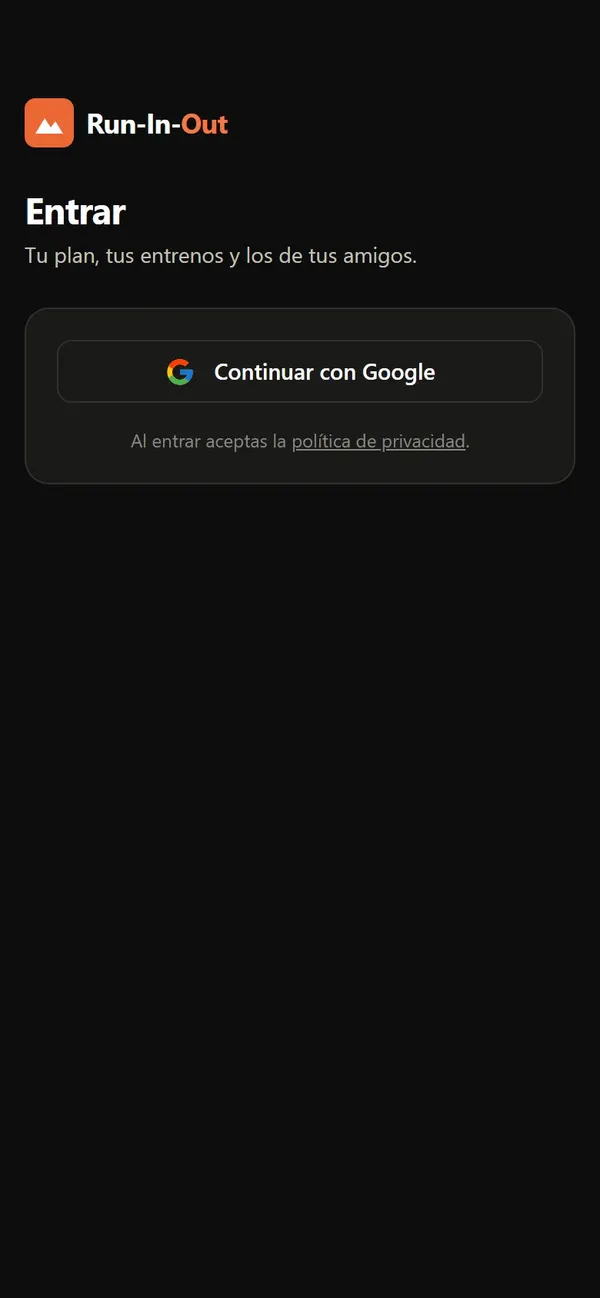
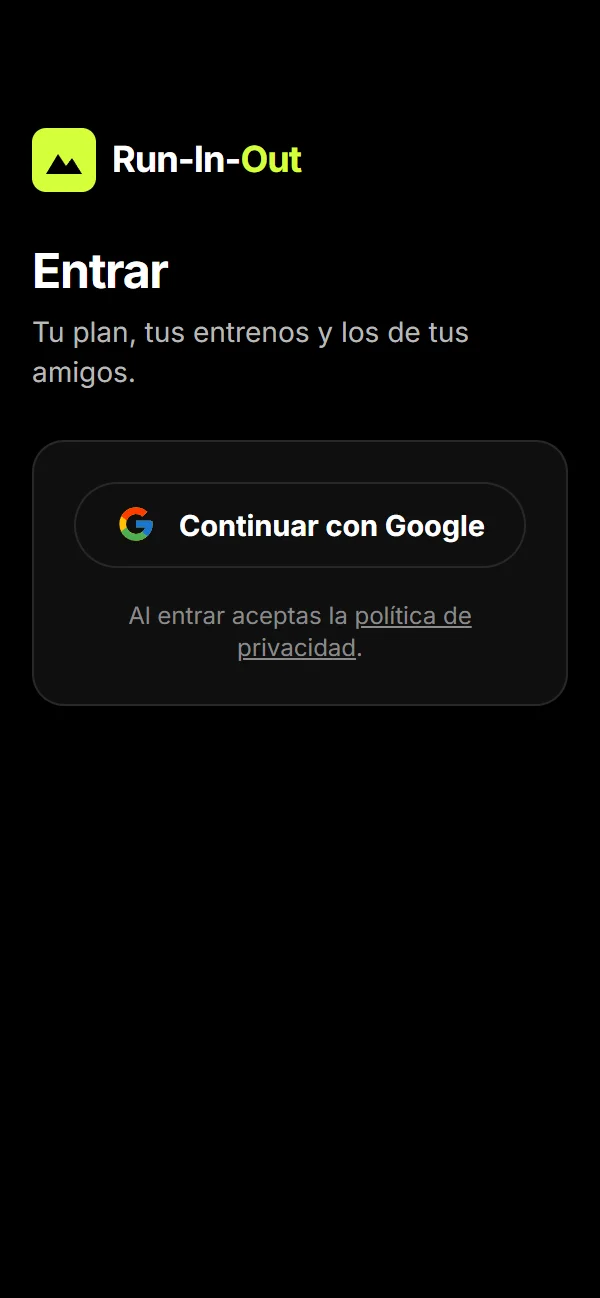
Run-In-Out con sus colores nuevos: ficha negra y lima, icono y captura de entrada actualizados

diff --git a/styles.css b/styles.css
@@ -398,6 +398,20 @@ section {
     radial-gradient(ellipse 60% 70% at 15% 50%, color-mix(in srgb, var(--accent) 14%, transparent), transparent 70%),
     var(--bg2);
 }
+/* Run-In-Out con sus colores: negro y lima, como la app */
+.app-volt {
+  --accent: #d4ff3a;
+  --accent2: #c2f01f;
+  --bg2: #0a0a0a;
+  --card: #141414;
+  --border: #2a2a2a;
+  --ink: #ffffff;
+  --text: #ececec;
+  --text2: #a9a9a9;
+  --gray: #8c8c8c;
+  border-color: #1f1f1f;
+}
+.app-volt .app-btn:not(.app-btn-ghost) { color: #000; }
 .app-feature-rev .app-info { order: 2; }
 .app-feature-rev .app-visual { order: 1; }
 .app-head {

diff --git a/index.html b/index.html
@@ -463,7 +463,7 @@
     </article>
 
     <!-- Run-In-Out -->
-    <article class="app-feature app-feature-rev" style="--accent:#d9541c">
+    <article class="app-feature app-feature-rev app-volt">
       <div class="app-info" data-reveal>
         <div class="app-head">
           <img src="run-in-out-icon.svg" alt="" class="app-icon"/>

diff --git a/diario/Decisiones.md b/diario/Decisiones.md
@@ -31,3 +31,6 @@ tags: [decisiones]
 
 ## Optimización de rendimiento
 *2026-10-20* — La web cargaba ~9,9 MB al entrar (capturas PNG de hasta 5,6 MB). Se pasan a WebP a 1600px (las de las webs) y 600px (las de las apps): ~0,4 MB al entrar y ~0,8 MB tras recorrer toda la página. Además: imágenes con `loading="lazy"` y tamaño fijo, iconos de Font Awesome sin bloquear el pintado, red neuronal y terminal en pausa cuando la portada no se ve, scroll y ratón limitados a un cálculo por frame, y el mazo oscurece con una capa en vez de `filter`. Los PNG originales siguen en la carpeta pero la web ya no los usa.
+
+## Run-In-Out con sus colores
+*2026-10-26* — La app cambió a negro y lima (estilo Volt). Su ficha del portfolio deja el naranja y pasa a fondo negro con acento lima (clase `app-volt`, solo redefine variables dentro de la tarjeta). Alternativa: solo cambiar el acento a lima sobre el fondo claro — descartada porque el lima no se lee sobre blanco roto.

diff --git a/diario/Roadmap.md b/diario/Roadmap.md
@@ -22,6 +22,7 @@ Leyenda: `[x]` hecho · `[ ]` pendiente · `[/]` empezado · `[-]` descartado
 - [x] Rendimiento: imágenes a WebP (9,9 MB → 0,4 MB al entrar), carga diferida, animaciones en pausa fuera de pantalla
 - [ ] Cambiar las capturas de Eat-em y Run-In-Out por pantallas de dentro de la app (`eat-em.jpg`, `run-in-out.jpg`)
 - [ ] Revisar textos de Contacto ahora que no hay Servicios
+- [x] Run-In-Out con sus colores nuevos (negro y lima, como la app): tarjeta oscura, icono y captura de entrada nueva → [[Decisiones#Run-In-Out con sus colores]]
 - [x] Conectar la carpeta al repo público github.com/davidodo123/Portfolio y subir los cambios
 - [x] Desplegar en Vercel → https://portfoliodsb.vercel.app
 - [x] Demos de las webs en GitHub Pages: TØP, Peru, Moi y Skylander. Petside y Learnio quitadas del portfolio (necesitan PHP + BD)

diff --git a/diario/Diario/2026-10-26.md b/diario/Diario/2026-10-26.md
@@ -1,0 +1,19 @@
+---
+tags: [diario]
+fecha: 2026-10-26
+fase: Fase 1 · Necesario
+---
+# lunes 26 de octubre de 2026
+
+## Qué hemos hecho
+- Ficha de Run-In-Out con los colores nuevos de la app: fondo negro, acento lima, botón lima con texto negro. → [[Decisiones#Run-In-Out con sus colores]]
+- Icono `run-in-out-icon.svg` nuevo (cuadrado lima con montañas negras) y captura `run-in-out.webp` renovada desde la web de producción.
+
+## Problemas y cómo se resolvieron
+-
+
+## Desplegado
+- Push a GitHub (Vercel despliega solo).
+
+## Siguiente paso
+- Revisar textos de Contacto.
